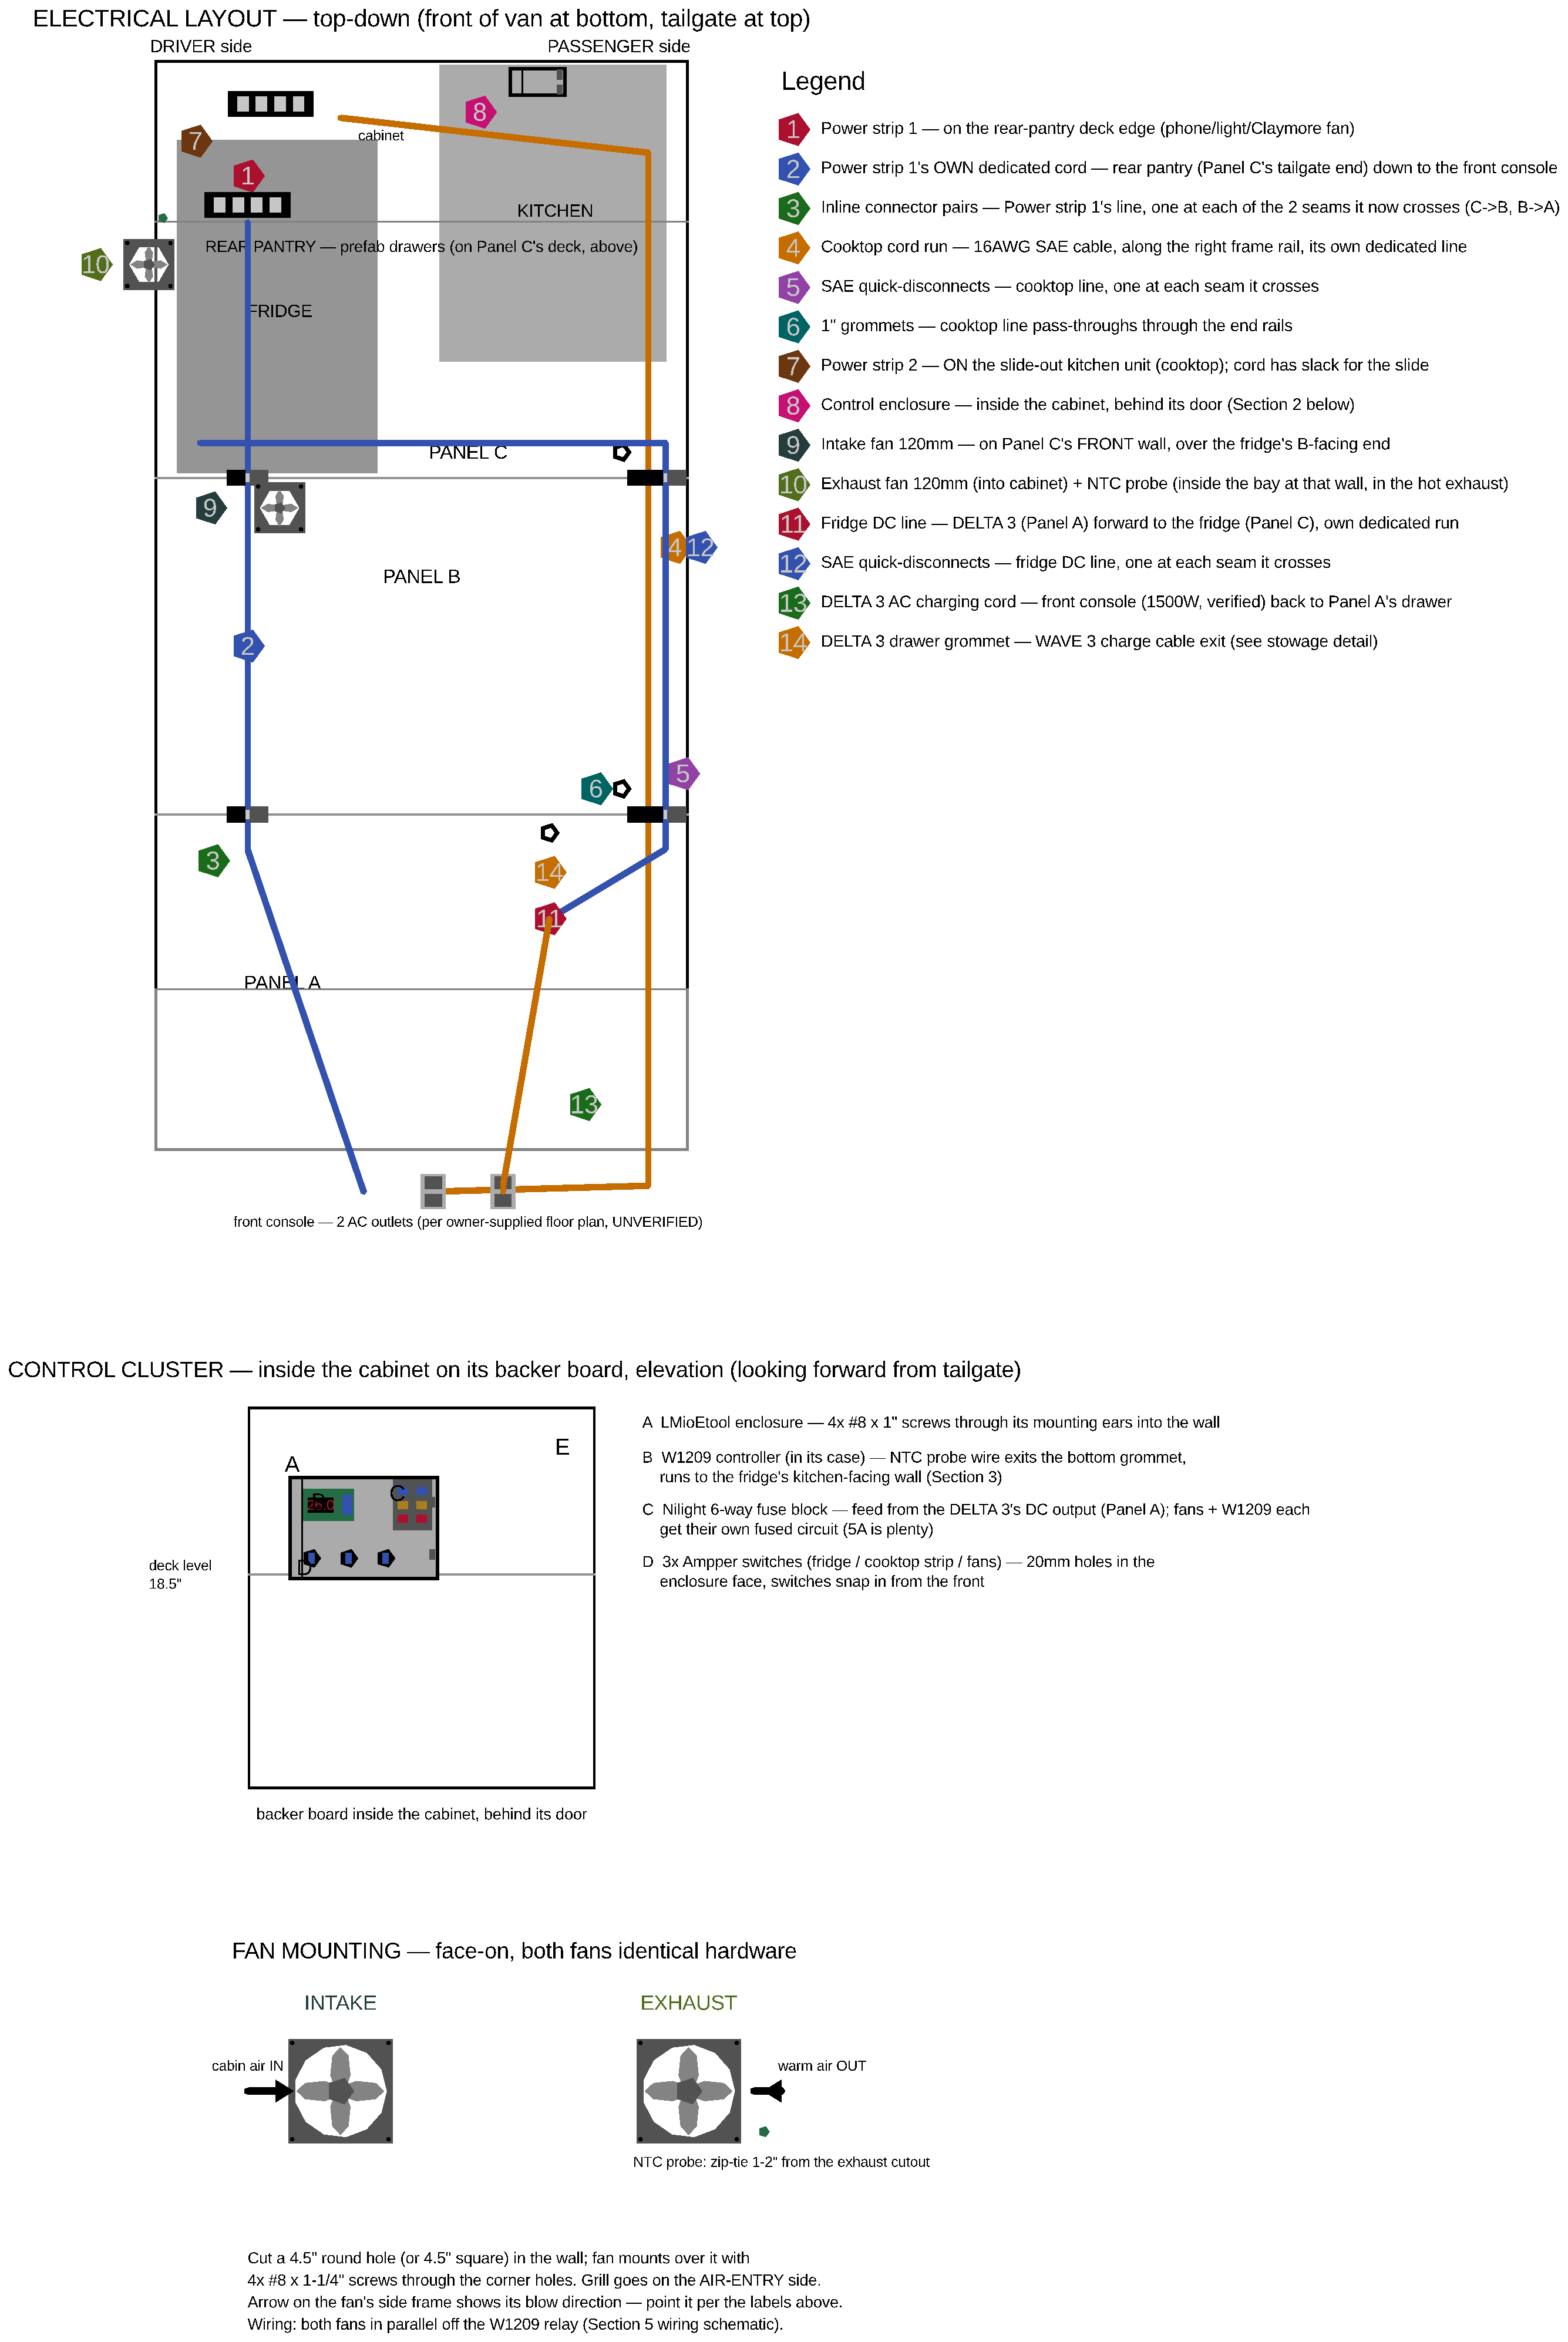
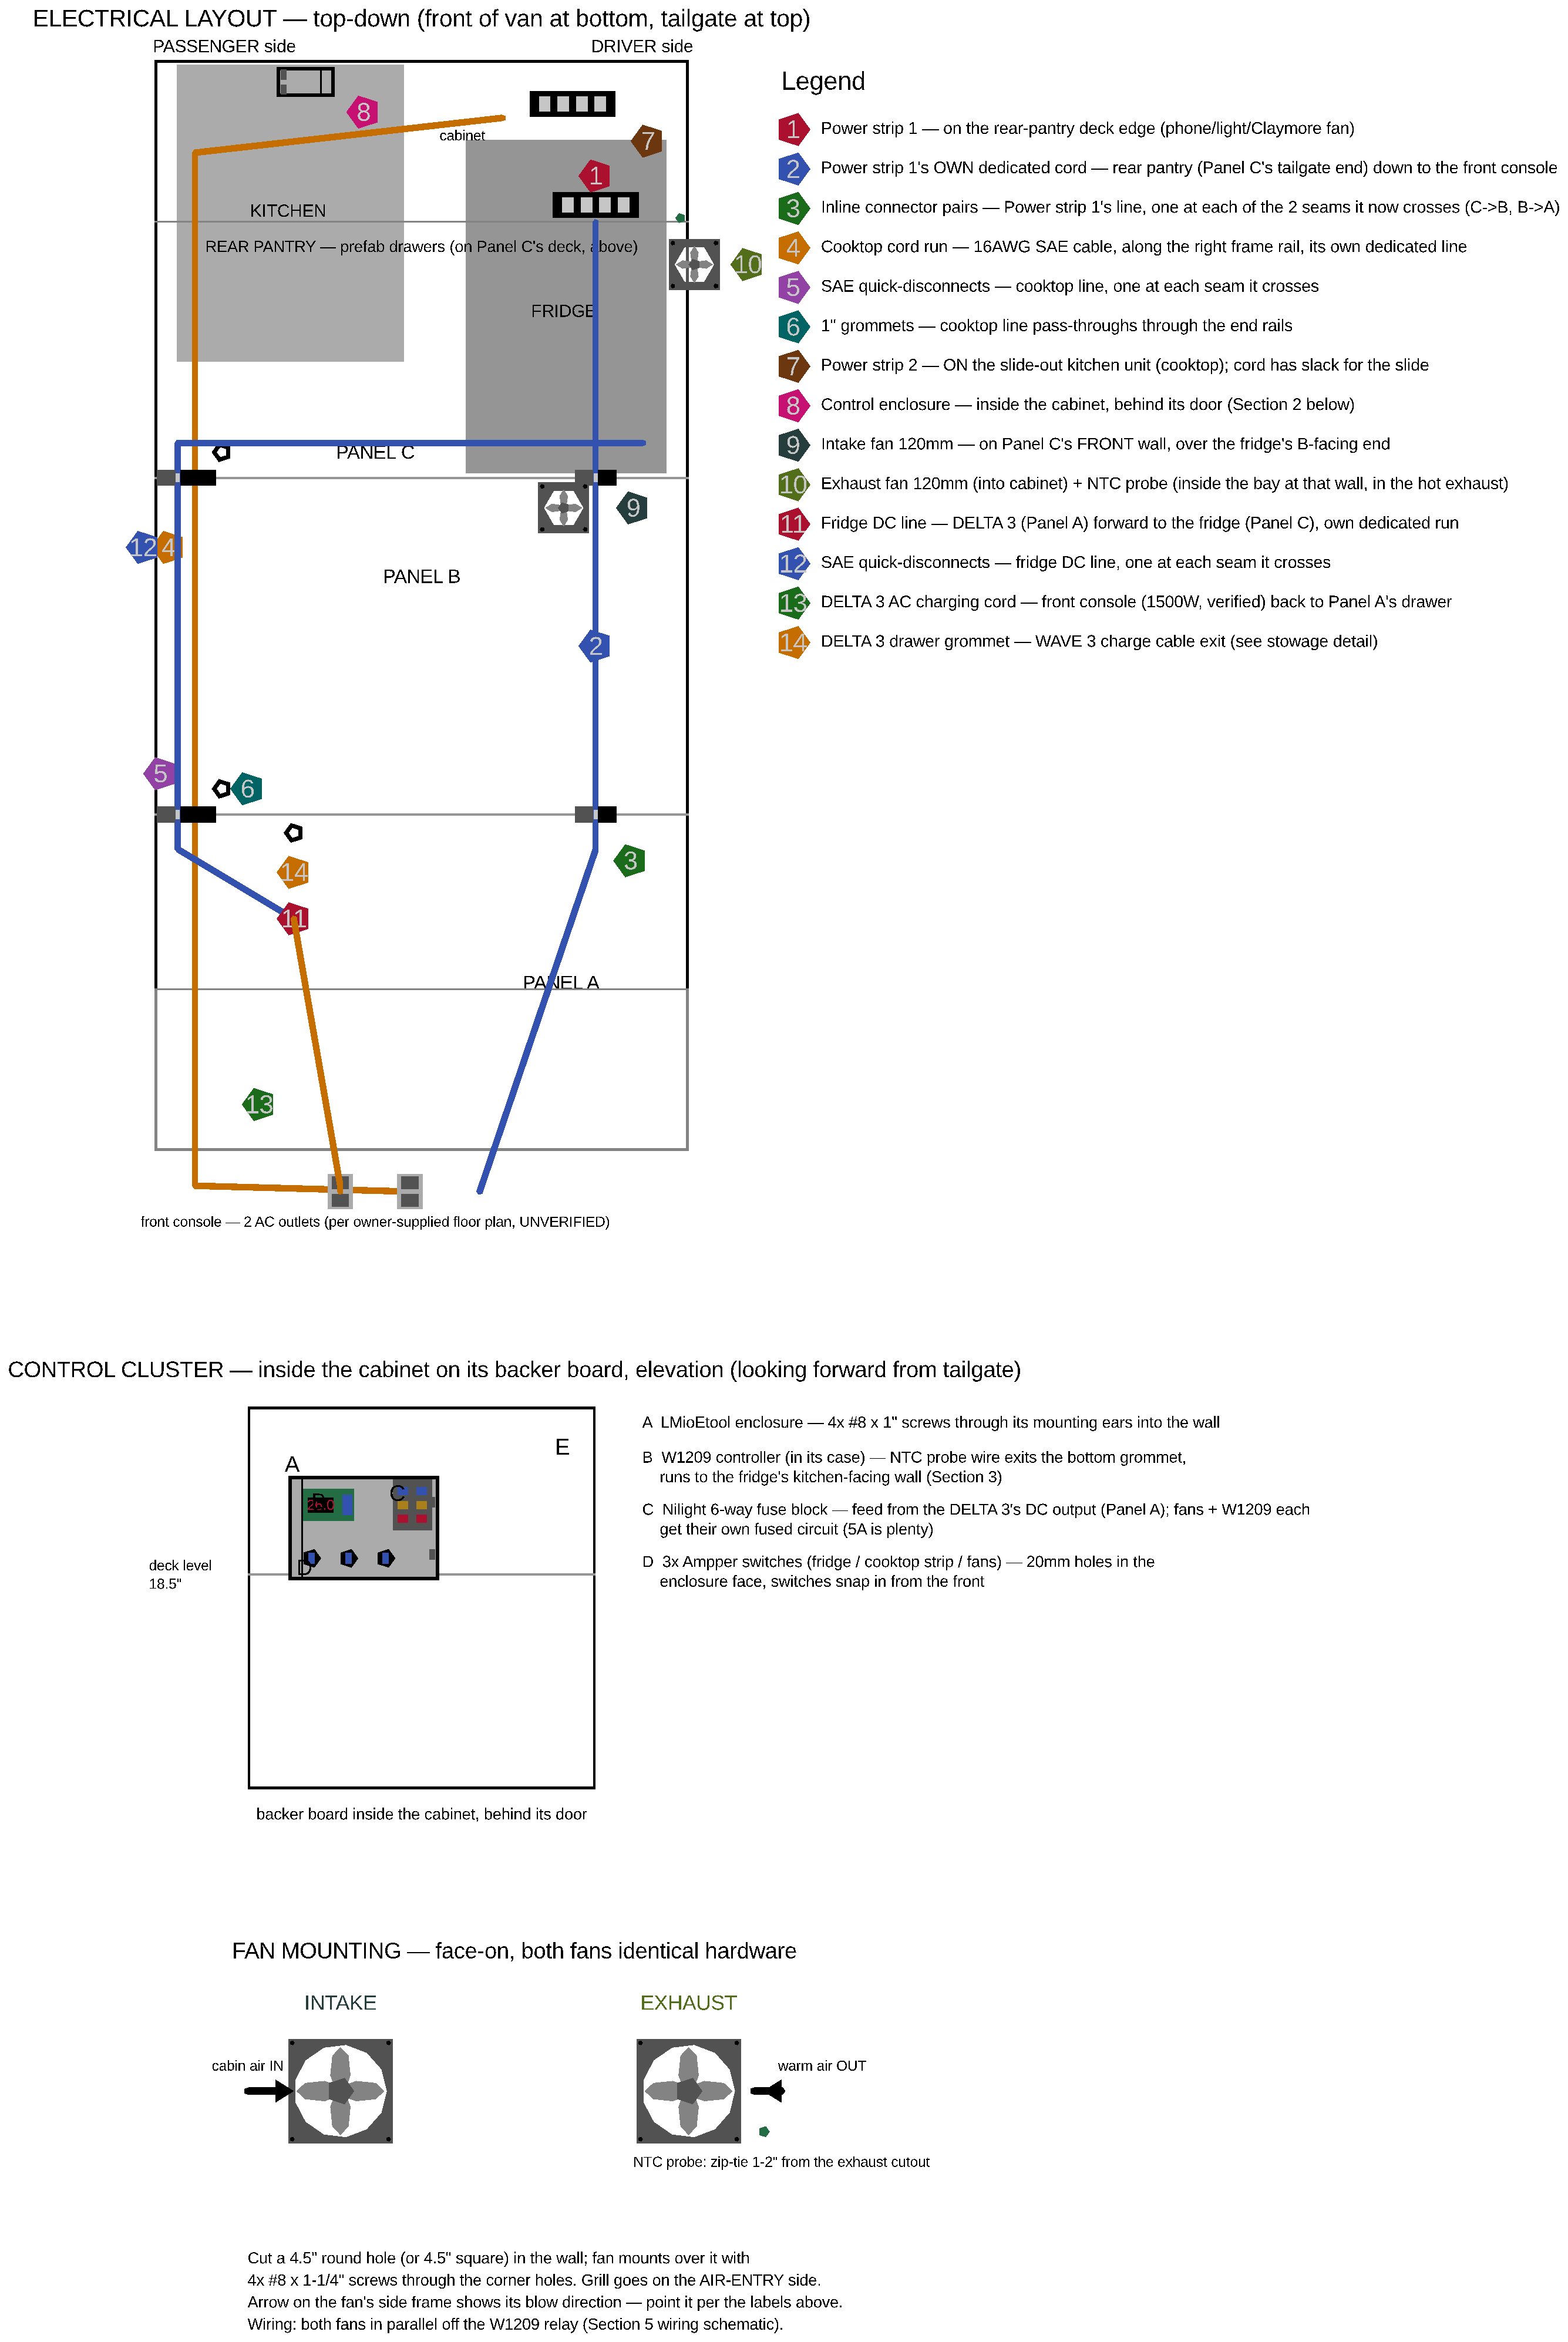
Mirror the electrical-layout top-down so tailgate-at-top puts PASSENGER on page-left (true bird's-eye); add DRIVER/PASSENGER labels to floorplan + fridge-install; clarify Panel C origin as driver-side corner

Changed region(s): [[0.0622, 0.0, 0.4974, 0.5286], [0.0311, 0.0933, 0.1243, 0.1244]]

diff --git a/design_review.html b/design_review.html
@@ -116,7 +116,7 @@
   <p class="sub">One continuous deck of three lift-out boxes; the fridge, kitchen, and pantry all share Panel C at the tailgate end.</p>
   <figure class="plate">
     <span class="platetag">Bird's-eye floor plan</span>
[2 lines of base64/hex data omitted]
     <figcaption><b>Top-down.</b> Front of the van at top, tailgate at bottom. Panel A (29") + Panel B (29") carry the bed; Panel C (36") holds the fridge (driver side) and kitchen (passenger side) underneath, with the prefab drawer pantry on the deck above them. Grey blocks = wheel wells; the platform stays clear of the floor-level heat vents at the edges.</figcaption>
   </figure>
 

diff --git a/sienna_camper_build_plan.md b/sienna_camper_build_plan.md
@@ -267,7 +267,7 @@ With no tops and no skirts, every panel's top rails are exposed — **grip those
 
 Two coordinate conventions, each picked to match how you'd actually stand at the access point in question — full reasoning and diagrams in `fridge_install_detail.scad` / `rear_view.scad`:
 
-- **Panel C** (fridge + kitchen system, AND the rear pantry — it sits on Panel C's deck, sharing this same coordinate frame): origin (0,0) at Panel C's **tailgate-facing left corner**, floor level. X increases right (0-46"), Y increases forward toward the Panel B seam (0-36"). Z increases up from the van floor. The rear pantry occupies Y 0-14 (the tailgate-most 14", above deck level) — the SAME Y range the fridge/kitchen's own tailgate-facing ends sit in, just at a different Z height (Z 19.25+ for the pantry vs. Z 0-16ish for the fridge/kitchen below deck).
+- **Panel C** (fridge + kitchen system, AND the rear pantry — it sits on Panel C's deck, sharing this same coordinate frame): origin (0,0) at Panel C's **tailgate-facing DRIVER-side corner**, floor level. X increases toward the passenger side (0-46"), Y increases forward toward the Panel B seam (0-36"). Z increases up from the van floor. The rear pantry occupies Y 0-14 (the tailgate-most 14", above deck level) — the SAME Y range the fridge/kitchen's own tailgate-facing ends sit in, just at a different Z height (Z 19.25+ for the pantry vs. Z 0-16ish for the fridge/kitchen below deck).
 - **Panel A, Panel B**: origin (0,0) at that panel's **own front-left corner** (front = toward the front seats). X increases right (0-46"), Y increases toward the tailgate (0 = that panel's own length). Z from the van floor.
 
 ![Fridge install detail](renders/fridge-install-detail.svg)